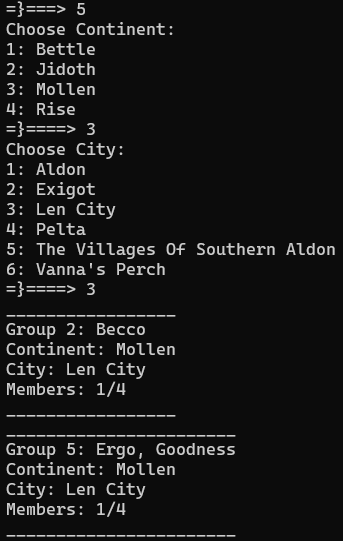
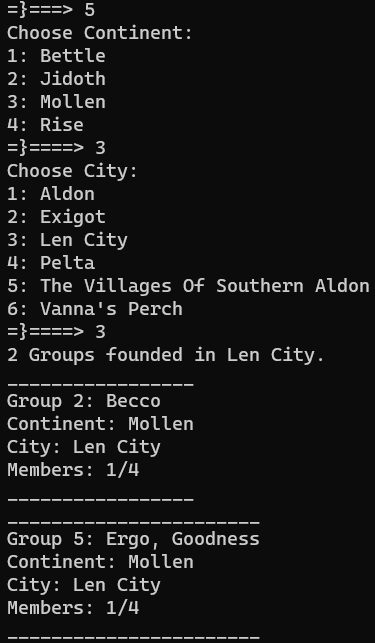
counts added to some searches

Changed region(s): [[0.0, 0.0, 0.9913, 1.0], [0.5248, 0.5323, 0.6997, 0.5619], [0.7289, 0.5323, 0.8455, 0.5619]]

diff --git a/cli_functions.py b/cli_functions.py
@@ -40,6 +40,7 @@ def show_groups_by_continent():
     continent = continent_submenu()
     groups = Group.get_continent(continent.capitalize())
     if len(groups) > 0:
+        print(f"{len(groups)} {'Group' if len(groups) == 1 else 'Groups'} founded on {continent.capitalize()}.")
         for n in groups:
             print(n)
     else:
@@ -52,6 +53,7 @@ def show_groups_by_city():
     city = city_submenu(continent)
     groups = Group.get_city(string.capwords(city))
     if len(groups) > 0:
+        print(f"{len(groups)} {'Group' if len(groups) == 1 else 'Groups'} founded in {string.capwords(city)}.")
         for n in groups:
             print(n)
     else:
@@ -62,6 +64,7 @@ def show_adventurers_by_alignment():
     alignment = alignment_submenu()
     advs = Adventurer.get_alignment(alignment.capitalize())
     if len(advs) > 0:
+        print(f'{len(advs)} {"Adventurer is" if len(advs) == 1 else "Adventurers are"} of the "{alignment.capitalize()}" alignment.')
         for n in advs:
             print(n)
     else:
@@ -72,6 +75,7 @@ def show_adventurers_by_job():
     job = job_submenu()
     advs = Adventurer.get_job(job.capitalize())
     if len(advs) > 0:
+        print(f'{len(advs)} {"Adventurer is a" if len(advs) == 1 else "Adventurers are"} "{job.capitalize()}{"" if len(advs) == 1 else "s"}."')
         for n in advs:
             print(n)
     else:

diff --git a/README.md b/README.md
@@ -24,7 +24,7 @@ Each of Silowan's 4 major continents are home to various cities, though only som
 | Mollen | Aldon <br> Exigot <br> Len City <br> Pelta <br> The Villages of Southern Aldon  <br> Vanna's Perch |
 | Rise | Expanse <br> Mouth <br> Shelf |
 
-Crowded cities can offer a lively, bustling ecosystem of Adventurers, though this may also lead to intense competition for resources. The choice of where to begin is up to the Group's Founder.  With option 5, you can check to see how many Groups, if any, belong to a particular city.  
+Crowded cities can offer a lively, bustling ecosystem of Adventurers, though this may also lead to intense competition for resources. The choice of where to begin is up to the Group's Founder.  With option 5, one can gather information about the current Groups belonging to any particular city.
 
 ![Group by City](images/Group%20by%20City.png)
 
